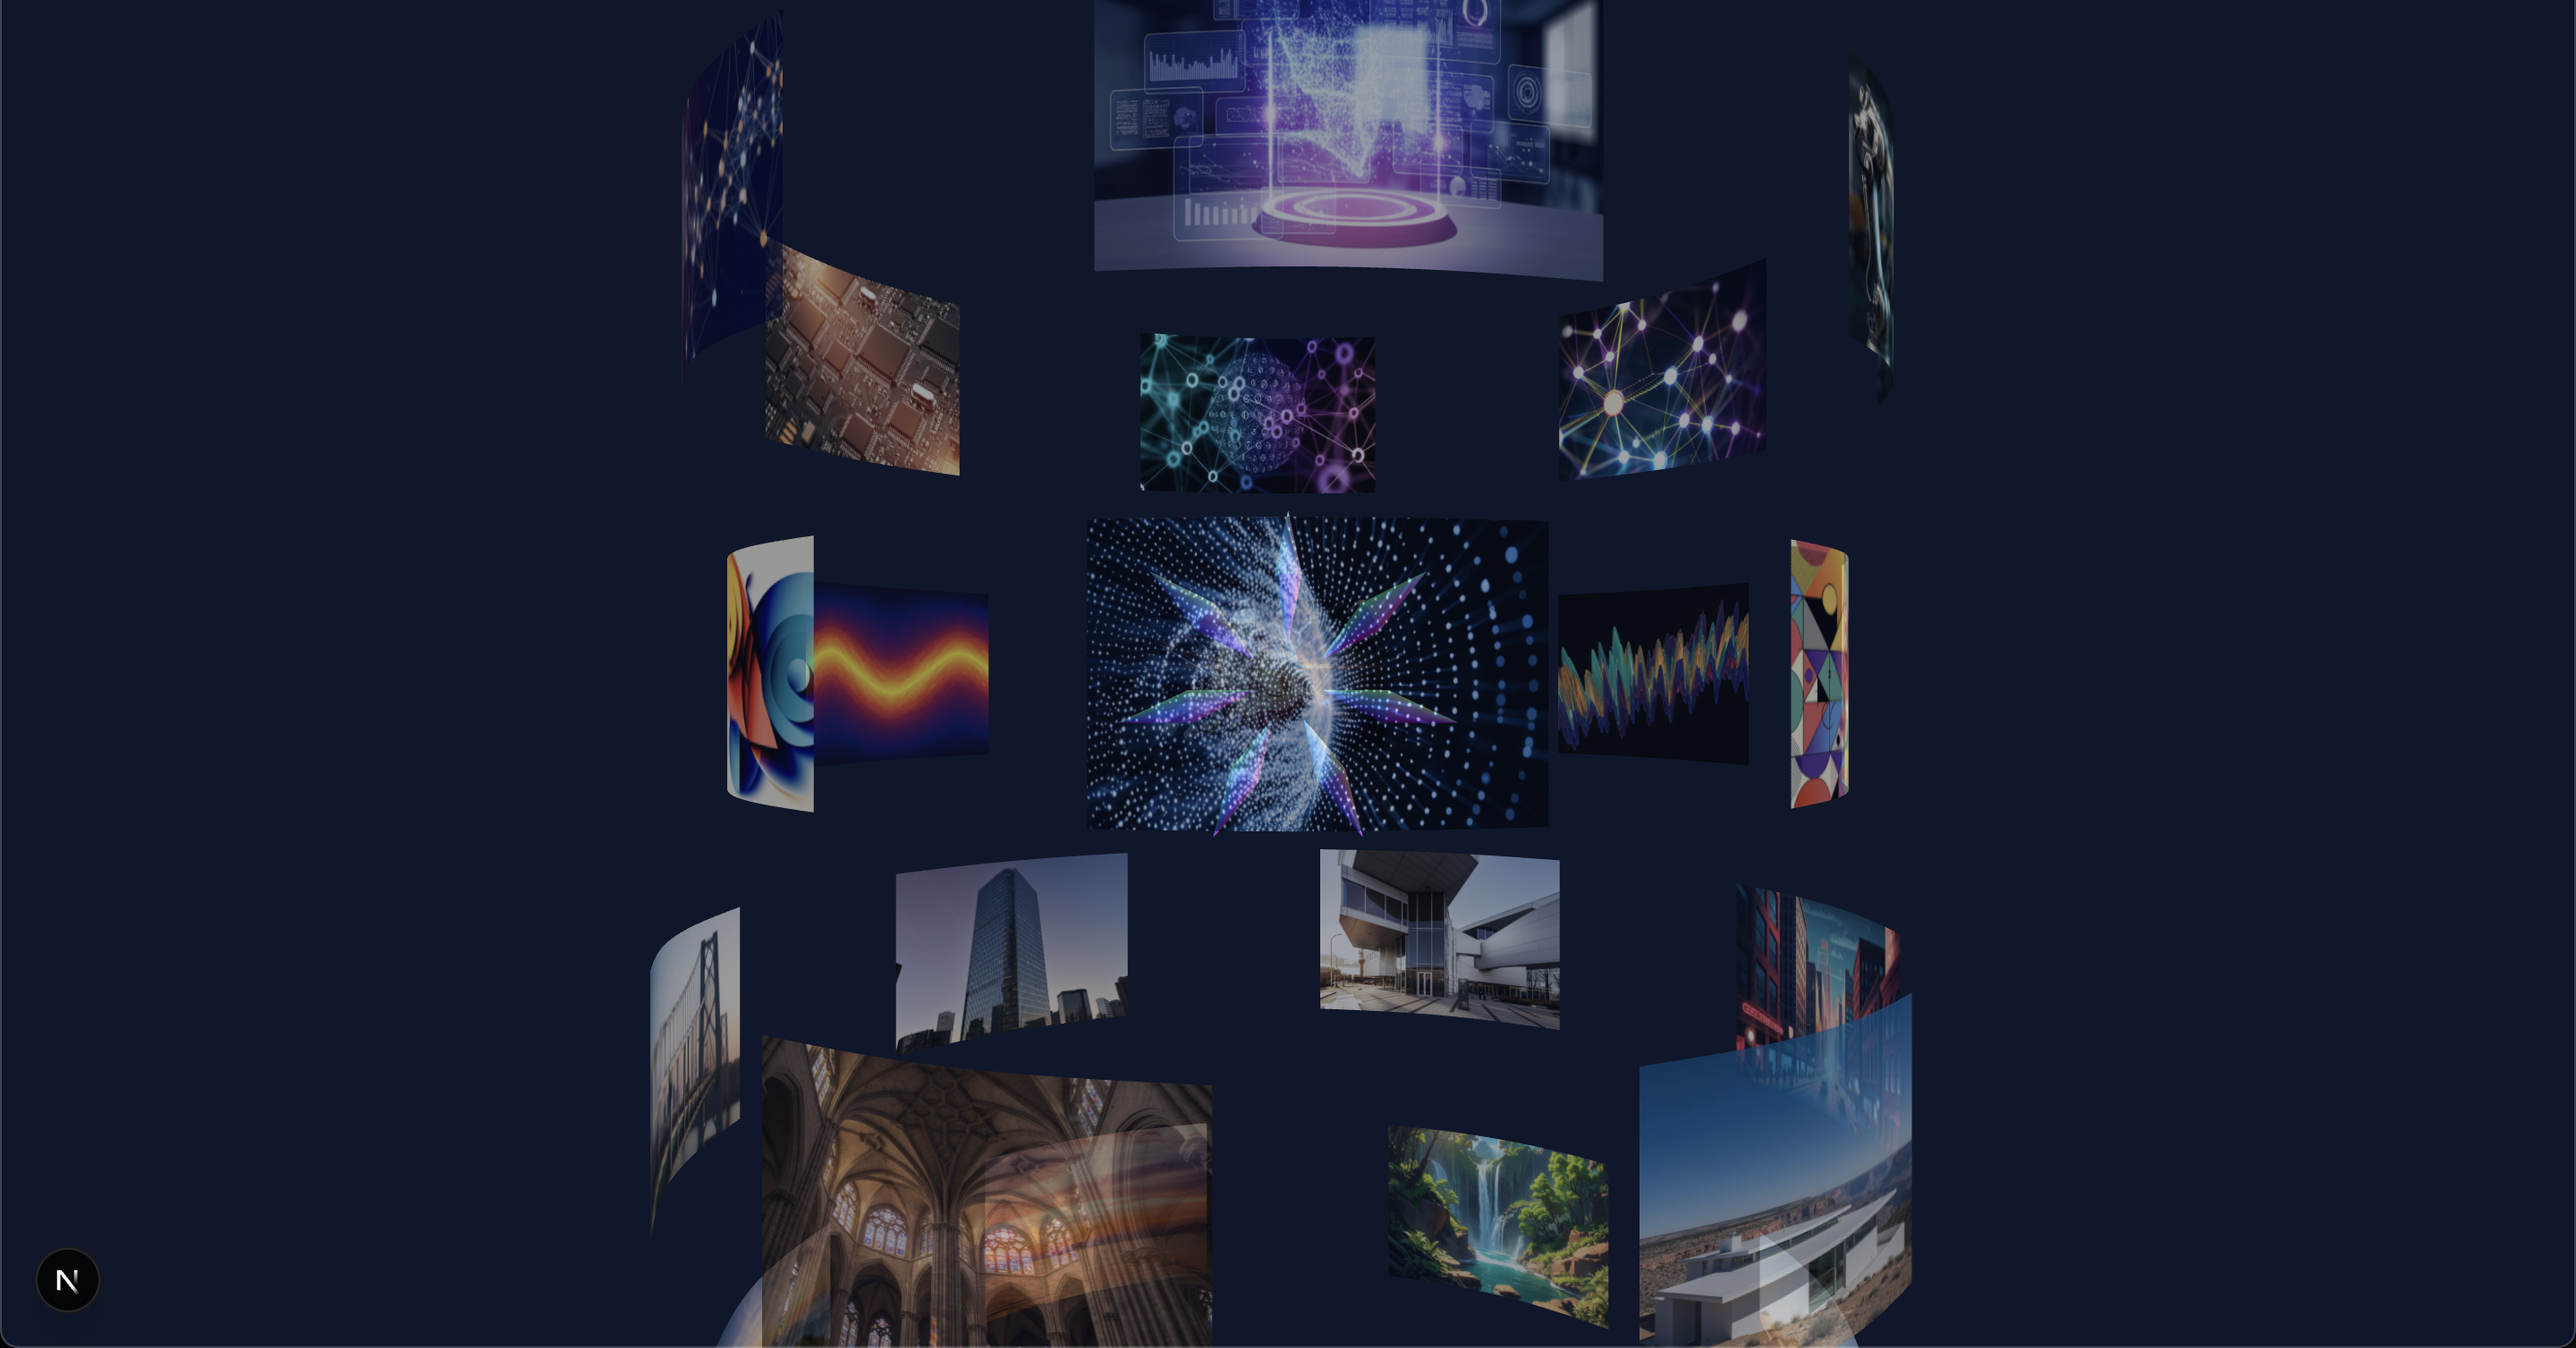
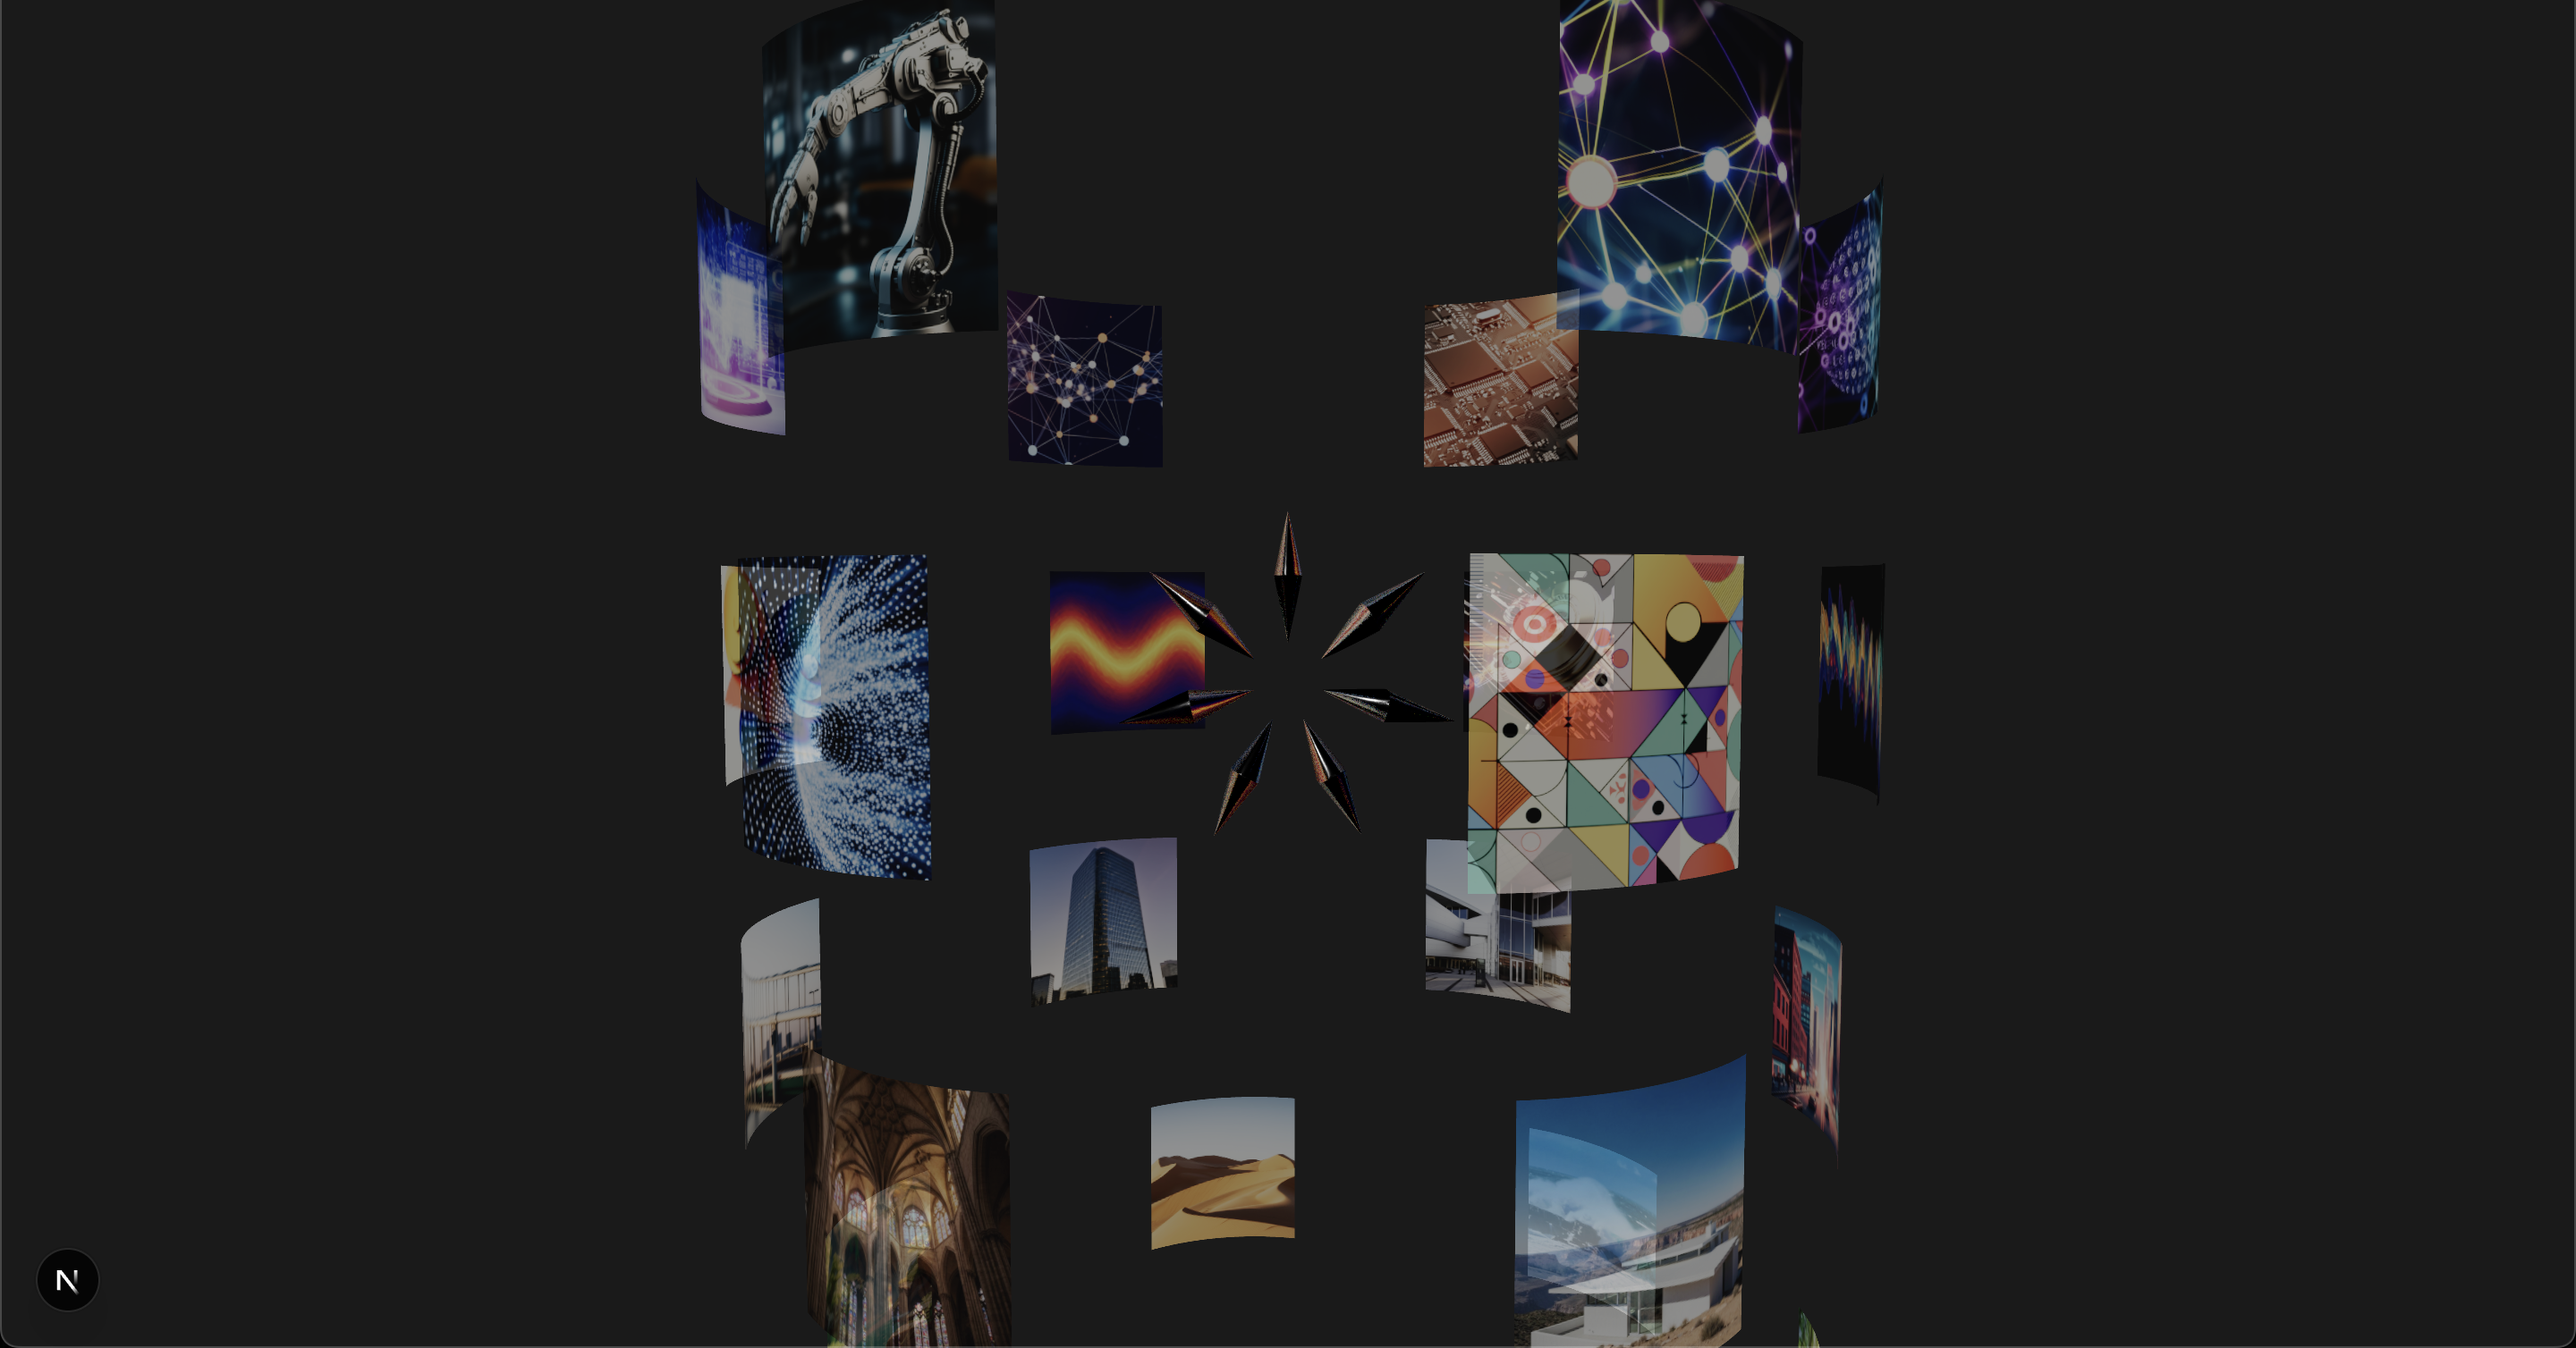
fix(main): display image texture outward instead of inward

Changed region(s): [[0.25, 0.0, 0.75, 1.0]]

diff --git a/components/Gallery/utils.ts b/components/Gallery/utils.ts
@@ -4,33 +4,56 @@ import { extend } from "@react-three/fiber";
 // Paul West @prisoner849 https://discourse.threejs.org/u/prisoner849
 // https://discourse.threejs.org/t/simple-curved-plane/26647/10
 class BentPlaneGeometry extends THREE.PlaneGeometry {
-  constructor(radius, ...args) {
+  constructor(
+    radius: number,
+    ...args: ConstructorParameters<typeof THREE.PlaneGeometry>
+  ) {
     super(...args);
-    let p = this.parameters;
-    let hw = p.width * 0.5;
-    let a = new THREE.Vector2(-hw, 0);
-    let b = new THREE.Vector2(0, radius);
-    let c = new THREE.Vector2(hw, 0);
-    let ab = new THREE.Vector2().subVectors(a, b);
-    let bc = new THREE.Vector2().subVectors(b, c);
-    let ac = new THREE.Vector2().subVectors(a, c);
-    let r =
+    const p = this.parameters;
+    const hw = p.width * 0.5;
+
+    const sign = Math.sign(radius) || 1; // -1 for negative, 1 for positive
+    const absRadius = Math.abs(radius);
+
+    const a = new THREE.Vector2(-hw, 0);
+    const b = new THREE.Vector2(0, absRadius);
+    const c = new THREE.Vector2(hw, 0);
+
+    const ab = new THREE.Vector2().subVectors(a, b);
+    const bc = new THREE.Vector2().subVectors(b, c);
+    const ac = new THREE.Vector2().subVectors(a, c);
+
+    const r =
       (ab.length() * bc.length() * ac.length()) / (2 * Math.abs(ab.cross(ac)));
-    let center = new THREE.Vector2(0, radius - r);
-    let baseV = new THREE.Vector2().subVectors(a, center);
+
+    const center = new THREE.Vector2(0, absRadius - r);
+    const baseV = new THREE.Vector2().subVectors(a, center);
     let baseAngle = baseV.angle() - Math.PI * 0.5;
     let arc = baseAngle * 2;
-    let uv = this.attributes.uv;
-    let pos = this.attributes.position;
-    let mainV = new THREE.Vector2();
+
+    // flip arc if radius is negative
+    arc *= sign;
+
+    const uv = this.attributes.uv as THREE.BufferAttribute;
+    const pos = this.attributes.position as THREE.BufferAttribute;
+    const mainV = new THREE.Vector2();
+
     for (let i = 0; i < uv.count; i++) {
-      let uvRatio = 1 - uv.getX(i);
-      let y = pos.getY(i);
-      mainV.copy(c).rotateAround(center, arc * uvRatio);
-      pos.setXYZ(i, mainV.x, y, -mainV.y);
+      const uvRatio = 1 - uv.getX(i);
+      const y = pos.getY(i);
+
+      mainV.copy(c).rotateAround(center, arc * uvRatio * sign);
+      pos.setXYZ(i, mainV.x, y, -mainV.y * sign);
     }
+
     pos.needsUpdate = true;
   }
 }
 
 extend({ BentPlaneGeometry });
+
+declare module "@react-three/fiber" {
+  interface ThreeElements {
+    bentPlaneGeometry: BentPlaneGeometry;
+  }
+}

diff --git a/components/Gallery/Image.tsx b/components/Gallery/Image.tsx
@@ -5,7 +5,7 @@ import React, { useEffect, useRef, useState } from 'react';
 import * as THREE from "three";
 import './utils';
 
-const DEFAULT_BEND_FACTOR = 0.1
+const DEFAULT_BEND_FACTOR = -0.1;
 const DEFAULT_OPACITY = 0.6
 
 interface ImageProps {
@@ -19,10 +19,10 @@ const Image: React.FC<ImageProps> = ({ position, lookAtY, texture }) => {
 
     useEffect(() => {
         if (!meshRef.current) return;
-        meshRef.current.lookAt(0, lookAtY, 0)
-    }, [lookAtY])
+        meshRef.current.lookAt(0, lookAtY, 0);
+        meshRef.current.rotateY(Math.PI); // flip for the texture to face outside of the strip
+    }, [lookAtY]);
 
-    // TODO: handle image + video, hover effect
     const [hovered, hover] = useState(false)
     const pointerOver = (e) => (e.stopPropagation(), hover(true))
     const pointerOut = () => hover(false)
@@ -30,7 +30,7 @@ const Image: React.FC<ImageProps> = ({ position, lookAtY, texture }) => {
     useFrame((_state, delta) => {
         if (!meshRef.current) return;
         easing.damp(meshRef.current.material, 'opacity', hovered ? 0.9 : DEFAULT_OPACITY, 0.2, delta)
-        easing.damp(meshRef.current.material, 'grayscale', hovered ? 0 : 1, 0.2, delta)
+        // easing.damp(meshRef.current.material, 'grayscale', hovered ? 0 : 1, 0.2, delta)
     })
 
     useCursor(hovered)

diff --git a/components/Logo.tsx b/components/Logo.tsx
@@ -4,7 +4,7 @@ Auto-generated by: https://github.com/pmndrs/gltfjsx
 
 import * as THREE from 'three'
 import React, { useEffect, useRef } from 'react'
-import { useGLTF } from '@react-three/drei'
+import { MeshReflectorMaterial, MeshTransmissionMaterial, useGLTF } from '@react-three/drei'
 import { GLTF } from 'three-stdlib'
 import { useScrollbar } from '@14islands/r3f-scroll-rig'
 
@@ -49,8 +49,17 @@ export const Logo: React.FC<LogoProps> = (props) => {
         <group {...props} dispose={null} ref={groupRef}>
             <mesh scale={100} castShadow receiveShadow
                 geometry={geometry}
-                material={materials.model}>
-                <meshNormalMaterial />
+                // material={materials.model}
+                >
+                <MeshTransmissionMaterial
+                    roughness={0.15}
+                    thickness={0.4}
+                    anisotropicBlur={15}
+                    ior={1.31}
+                    reflectivity={1}
+                    chromaticAberration={0.03}
+                    transmission={1}
+                />
             </mesh>
         </group>
     )

diff --git a/components/GlobalScene.tsx b/components/GlobalScene.tsx
@@ -9,6 +9,25 @@ const GlobalScene: React.FC<GlobalSceneProps> = () => {
         <>
             <SmoothScrollbar config={{ lerp: 0.125 }} />
             <GlobalCanvas shadows>
+                <ambientLight intensity={0.15} />
+                <directionalLight
+                    position={[-3, 3, 5]}
+                    intensity={0.8}
+                    color="white"
+                    castShadow
+                    shadow-mapSize-width={1024}
+                    shadow-mapSize-height={1024}
+                    shadow-bias={-0.0001}
+                />
+                <spotLight
+                    position={[0, 4, 4]}
+                    angle={0.4}
+                    penumbra={0.9}
+                    intensity={0.6}
+                    distance={12}
+                    color="white"
+                    castShadow
+                />
                 {/* <OrbitControls /> */}
                 <Stats />
             </GlobalCanvas>

diff --git a/app/page.tsx b/app/page.tsx
@@ -15,24 +15,4 @@ export default function Home() {
       <GlobalScene />
     </>
   )
-
-
-  return (
-    <div className="w-full h-screen bg-gray-900">
-      <Canvas
-        shadows
-        camera={{
-          position: [0, 0, 12],
-          fov: 45,
-          type: "PerspectiveCamera",
-        }}
-        gl={{ antialias: true, alpha: false }}
-      >
-        <color attach="background" args={["#1a1a1a"]} />
-        <ScrollControls pages={5} damping={0.1}>
-          <Experience />
-        </ScrollControls>
-      </Canvas>
-    </div>
-  )
 }

diff --git a/components/Gallery/Strip.tsx b/components/Gallery/Strip.tsx
@@ -43,7 +43,7 @@ const Strip: React.FC<StripProps> = ({
 
         return elements;
 
-    }, [itemsCount, radius])
+    }, [itemsCount, radius, textures, y])
 
     const direction = gsap.utils.random(-0.25, 0.25)
 
